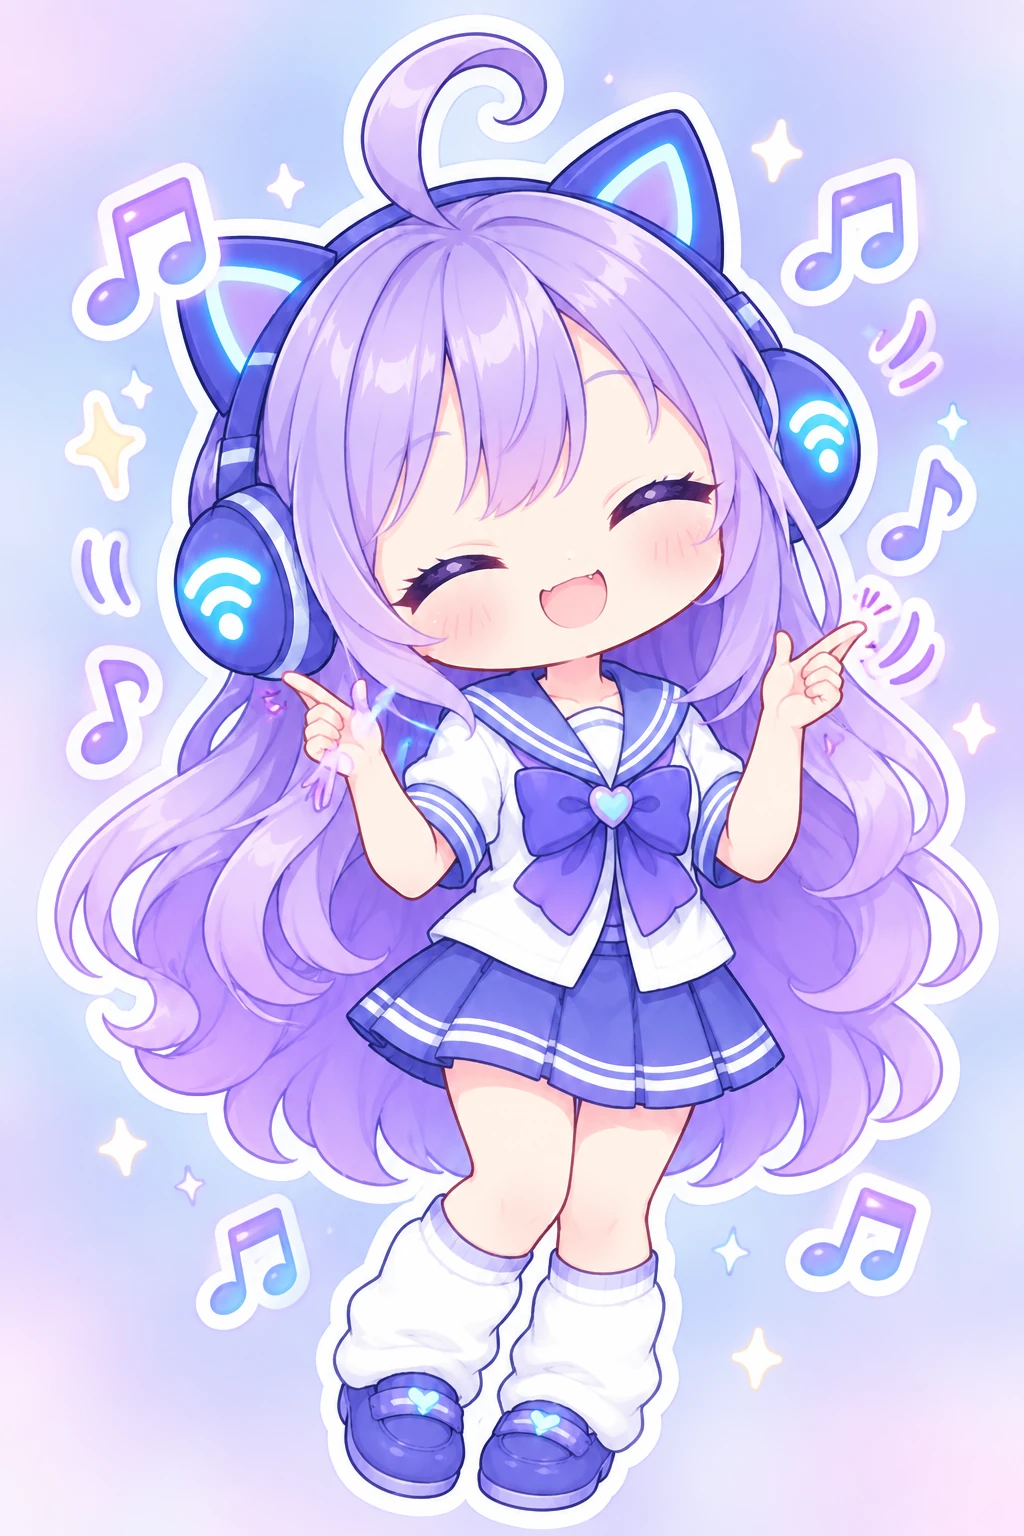
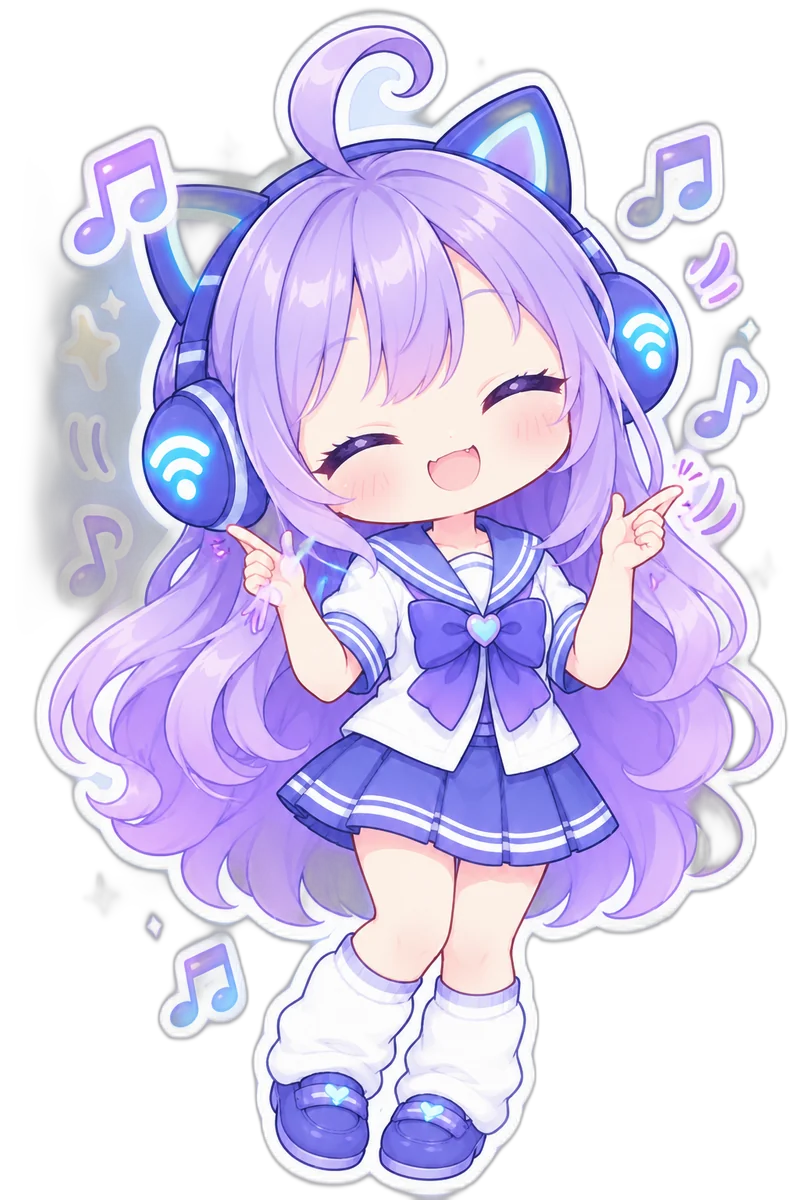
fix(android): 更多页删重复的后台检测子页 + 删顶栏冗余状态圆点 + 补抠两张漏抠娘图
- MobileMore: 质量检测关闭(默认)时'后台检测'已提为底栏 tab,'更多'里的
  同名子页移除(chips 动态过滤,sub 派生降级防 config 晚到时 chips 与内容不一致)
- App.tsx: 手机顶栏删除 status 圆点(与胶囊自带状态点重复)
- 资产: mascot-side-music/side-phone 两张为 VP8 无 alpha(漏跑 rembg 抠图),
  深色模式下显示整块浅色背景——用 Windows 版 rembg 管线补抠并双端同步替换,
  校验 VP8X+ALPH 存在;CODE_WIKI 记资产 alpha 校验约定

diff --git a/android/frontend/src/components/mobile/MobileMore.tsx b/android/frontend/src/components/mobile/MobileMore.tsx
@@ -1,5 +1,6 @@
-// "更多"聚合页:后台检测(桌面 MonitorPanel)/测速/日志/设置 四个子页,顶部 chips 切换。
+// "更多"聚合页:后台检测(桌面 MonitorPanel)/测速/日志/设置 子页,顶部 chips 切换。
 // 各子页复用桌面面板组件——它们是流式布局,窄屏可用;此处只提供移动导航容器。
+// 质量检测关闭(默认)时"后台检测"已提为底栏 tab,此处不再重复出现,子页随之移除。
 
 import { useState } from 'react'
 import { useTranslation } from 'react-i18next'
@@ -11,12 +12,13 @@ import { LogPanel } from '@/shared/LogPanel'
 import { useMonitor } from '@/monitor/useMonitor'
 import { useSettings } from '@/settings/useSettings'
 import { useConfigStore } from '@/hooks/useConfigStore'
+import { useMemo } from 'react'
 import { useLogToastStore } from '@/hooks/useLogToastStore'
 
 type MoreTab = 'monitor' | 'speedtest' | 'log' | 'settings'
 
-const TABS: { id: MoreTab; labelKey: string }[] = [
-  { id: 'monitor', labelKey: 'mobile.moreMonitor' },
+const TABS: { id: MoreTab; labelKey: string; qualityOnly?: boolean }[] = [
+  { id: 'monitor', labelKey: 'mobile.moreMonitor', qualityOnly: true },
   { id: 'speedtest', labelKey: 'mobile.moreSpeedtest' },
   { id: 'log', labelKey: 'mobile.moreLog' },
   { id: 'settings', labelKey: 'mobile.moreSettings' },
@@ -29,7 +31,12 @@ interface MobileMoreProps {
 
 export function MobileMore({ onShowOnboarding }: MobileMoreProps) {
   const { t } = useTranslation()
-  const [sub, setSub] = useState<MoreTab>('monitor')
+  // 质量检测关闭时 monitor 子页不在 chips 里,默认落到测速;开启时保持后台检测优先
+  const qualityEnabled = useConfigStore((s) => s.config.enableNetworkQuality !== false)
+  const tabs = useMemo(() => TABS.filter(({ qualityOnly }) => !qualityOnly || qualityEnabled), [qualityEnabled])
+  const [subRaw, setSub] = useState<MoreTab>('monitor')
+  // config 晚到时 qualityEnabled 翻转,已存的 monitor sub 需派生降级,避免 chips 与内容区不一致
+  const sub = !qualityEnabled && subRaw === 'monitor' ? 'speedtest' : subRaw
   const { handleToggleBackgroundCheck, handleTriggerCheck } = useMonitor()
   const { handleToggleLightMode, handleSetTheme, handleSetAutoLaunch } = useSettings()
   const api = useConfigStore.getState().api
@@ -40,7 +47,7 @@ export function MobileMore({ onShowOnboarding }: MobileMoreProps) {
   return (
     <div className="space-y-4">
       <div className="scrollbar-none flex gap-2 overflow-x-auto pb-1 -mx-1 px-1" style={{ scrollbarWidth: 'none' }}>
-        {TABS.map(({ id, labelKey }) => (
+        {tabs.map(({ id, labelKey }) => (
           <button
             key={id}
             type="button"

diff --git a/android/frontend/src/App.tsx b/android/frontend/src/App.tsx
@@ -58,7 +58,6 @@ function AppInner() {
   const adapters = useAdapterStore((s) => s.adapters)
   const accounts = useConfigStore((s) => s.accounts)
   const activeAccount = useConfigStore((s) => s.activeAccount)
-  const status = useAuthStore((s) => s.status)
   const configEnableNetworkQuality = useConfigStore((s) => s.config.enableNetworkQuality)
   // 质量检测默认关闭(省电):顶栏胶囊改显后台检测在线状态
   const qualityDisabled = useConfigStore((s) => s.config.enableNetworkQuality) === false
@@ -160,21 +159,13 @@ function AppInner() {
       className="relative flex flex-col h-full overflow-hidden font-sans bg-background text-foreground"
       style={{ background: 'var(--surface-main)' }}
     >
-      {/* 顶部轻 header:状态色点 + 网络质量胶囊 + 主题/关于入口。
+      {/* 顶部轻 header:网络质量胶囊(自带状态点) + 主题/关于入口。
           absolute 覆盖在 main 上方——滚动内容从 header 背后穿过，backdrop-blur 才真正雾化（MD3 top app bar 惯例）。
           上/下各留 12px：与系统状态栏(通知栏)和正文卡片都保持呼吸间距 */}
       <header
         className="absolute inset-x-0 top-0 shrink-0 flex items-center gap-3 px-4 pt-[calc(env(safe-area-inset-top)+12px)] pb-3 backdrop-blur-md z-10"
         style={{ background: 'color-mix(in srgb, var(--surface-main) 85%, transparent)' }}
       >
-        <span
-          className={cn(
-            'h-2.5 w-2.5 rounded-full',
-            status?.state === 'online' && 'bg-emerald-500 shadow-[0_0_8px_currentColor] text-emerald-500',
-            status?.state === 'loading' && 'bg-amber-500 text-amber-500 animate-pulse',
-            (status?.state === 'offline' || status?.state === 'error') && 'bg-zinc-500'
-          )}
-        />
         {/* 应用名移除(用户要求);原位置放桌面版同款网络质量胶囊,点击进质量页看明细 */}
         <button
           type="button"

diff --git a/CODE_WIKI.md b/CODE_WIKI.md
@@ -311,6 +311,7 @@ npx @tauri-apps/cli android build --target aarch64 --apk   # 产出已签名 APK
 
 - `npx tsc -b` 会 emit 出 `vite.config.js`/`.d.ts` 污染文件：tsconfig.node.json 是 composite 项目——类型检查一律 `npx tsc --noEmit --incremental`。
 - tsc 全量检查必报错 exit 2：自动加载了工作区根 node_modules 里损坏的 `@types/yauzl`——tsconfig 显式 `types: ["vite/client"]`（node 侧 `["node"]`）阻止自动加载全部 @types。
+- 双端娘图资产必须过 alpha 校验：`side-music/side-phone` 两张曾是 VP8 无 alpha（漏跑 rembg），深色模式下整块浅色背景刺眼——新增图用脚本解析 RIFF chunk 确认 ALPH 存在（双端 public/girl 同名文件须 md5 一致）。
 - host `cargo check` 在 `android/src-tauri` 基线即失败：mobile-only 插件权限 host 收集不全——安卓验证只认 `tauri android build` 交叉编译。
 - 安卓构建后 APK 没更新：tauri CLI 不跑 `beforeBuildCommand`，frontend/dist 还是旧的——先手动 `npx vite build`。
 - `tauri android build` 完成报告指向 `app-universal-release.apk` 但文件不存在：产物名/签名已内置 gradle——以输出目录实际文件为准。
